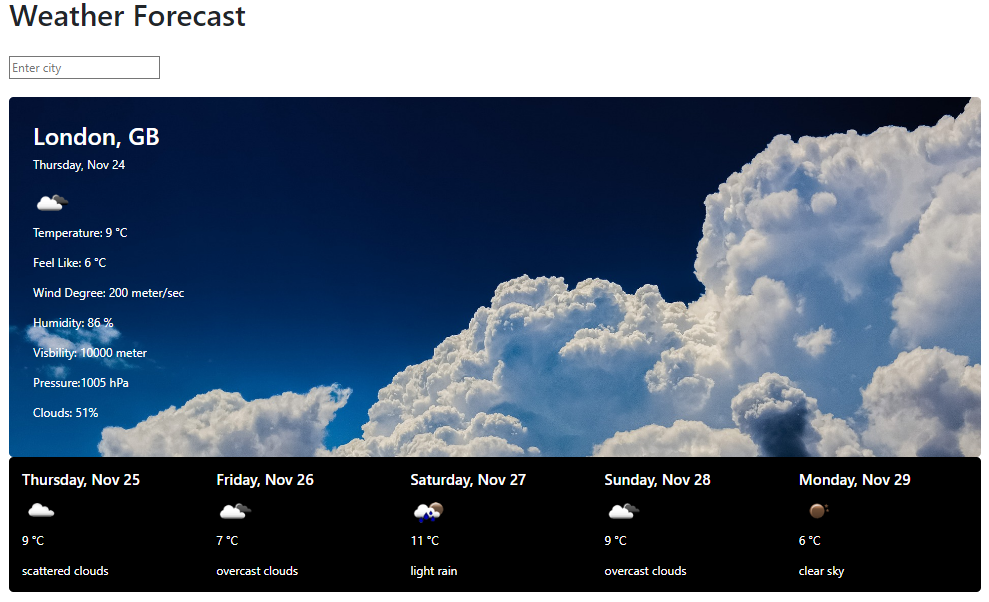
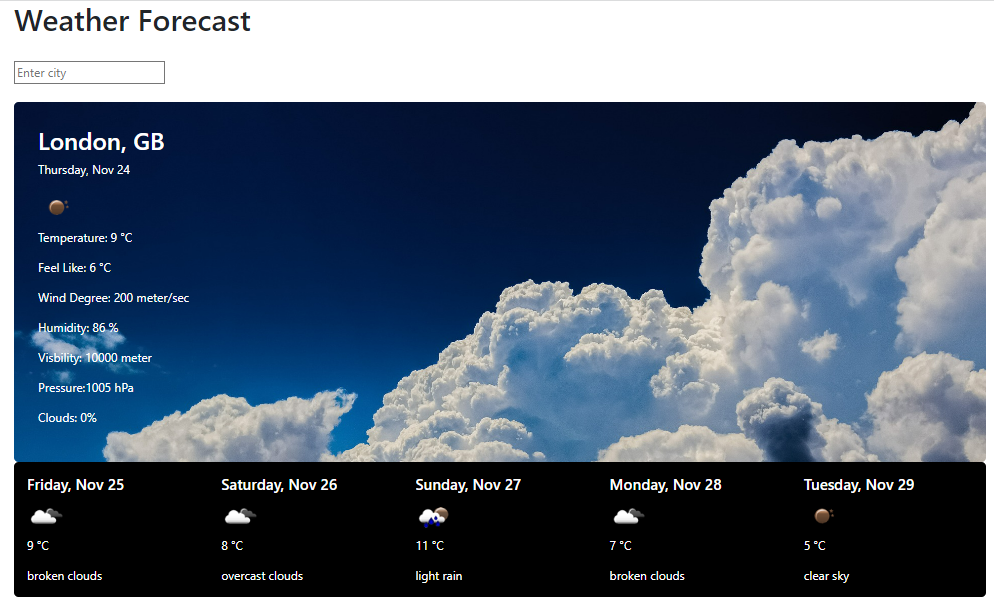
fix bug

diff --git a/src/WeatherForecast.js b/src/WeatherForecast.js
@@ -7,7 +7,7 @@ export default function WeatherForecast({data}) {
         let dateTime = new Date(d * 1000)
         const days = ["Sunday", "Monday", "Tuesday", "Wednesday", "Thursday", "Friday", "Saturday"];
         const months = ['Jan', 'Feb', 'Mar', 'Apr', 'May', 'Jun', 'Jul', 'Aug', 'Sep', 'Oct', 'Nov', 'Dec'];
-        return days[dateTime.getDay()] + ', ' + months[dateTime.getMonth()] + ' ' + (dateTime.getDate()+1);
+        return days[dateTime.getDay()] + ', ' + months[dateTime.getMonth()] + ' ' + (dateTime.getDate());
     }
 
     const style = {
@@ -21,42 +21,42 @@ export default function WeatherForecast({data}) {
         <CardGroup>
             <Card style={style}>
                 <Card.Body>
-                    <Card.Title>{getDate(data.list[0].dt)}</Card.Title>
-                    <img src={`http://openweathermap.org/img/w/${data.list[0].weather[0].icon}.png`} alt='weather icon' />
-                    <Card.Text>{(data.list[0].main.temp - 273.15).toFixed()} °C</Card.Text>
-                    <Card.Text>{data.list[0].weather[0].description}</Card.Text>
+                    <Card.Title>{getDate(data.list[1].dt)}</Card.Title>
+                    <img src={`http://openweathermap.org/img/w/${data.list[1].weather[0].icon}.png`} alt='weather icon' />
+                    <Card.Text>{(data.list[1].main.temp - 273.15).toFixed()} °C</Card.Text>
+                    <Card.Text>{data.list[1].weather[0].description}</Card.Text>
                 </Card.Body>
             </Card>
             <Card style={style}>
                 <Card.Body>
-                    <Card.Title>{getDate(data.list[8].dt)}</Card.Title>
-                    <img src={`http://openweathermap.org/img/w/${data.list[8].weather[0].icon}.png`} alt='weather icon' />
-                    <Card.Text>{(data.list[8].main.temp - 273.15).toFixed()} °C</Card.Text>
-                    <Card.Text>{data.list[8].weather[0].description}</Card.Text>
+                    <Card.Title>{getDate(data.list[9].dt)}</Card.Title>
+                    <img src={`http://openweathermap.org/img/w/${data.list[9].weather[0].icon}.png`} alt='weather icon' />
+                    <Card.Text>{(data.list[9].main.temp - 273.15).toFixed()} °C</Card.Text>
+                    <Card.Text>{data.list[9].weather[0].description}</Card.Text>
                 </Card.Body>
             </Card>
             <Card style={style}>
                 <Card.Body>
-                    <Card.Title>{getDate(data.list[16].dt)}</Card.Title>
-                    <img src={`http://openweathermap.org/img/w/${data.list[16].weather[0].icon}.png`} alt='weather icon' />
-                    <Card.Text>{(data.list[16].main.temp - 273.15).toFixed()} °C</Card.Text>
-                    <Card.Text>{data.list[16].weather[0].description}</Card.Text>
+                    <Card.Title>{getDate(data.list[17].dt)}</Card.Title>
+                    <img src={`http://openweathermap.org/img/w/${data.list[17].weather[0].icon}.png`} alt='weather icon' />
+                    <Card.Text>{(data.list[17].main.temp - 273.15).toFixed()} °C</Card.Text>
+                    <Card.Text>{data.list[17].weather[0].description}</Card.Text>
                 </Card.Body>
             </Card>
             <Card style={style}>
                 <Card.Body>
-                    <Card.Title>{getDate(data.list[24].dt)}</Card.Title>
-                    <img src={`http://openweathermap.org/img/w/${data.list[24].weather[0].icon}.png`} alt='weather icon' />
-                    <Card.Text>{(data.list[24].main.temp - 273.15).toFixed()} °C</Card.Text>
-                    <Card.Text>{data.list[24].weather[0].description}</Card.Text>
+                    <Card.Title>{getDate(data.list[25].dt)}</Card.Title>
+                    <img src={`http://openweathermap.org/img/w/${data.list[25].weather[0].icon}.png`} alt='weather icon' />
+                    <Card.Text>{(data.list[25].main.temp - 273.15).toFixed()} °C</Card.Text>
+                    <Card.Text>{data.list[25].weather[0].description}</Card.Text>
                 </Card.Body>
             </Card>
             <Card style={style}>
                 <Card.Body>
-                    <Card.Title>{getDate(data.list[32].dt)}</Card.Title>
-                    <img src={`http://openweathermap.org/img/w/${data.list[32].weather[0].icon}.png`} alt='weather icon' />
-                    <Card.Text>{(data.list[32].main.temp - 273.15).toFixed()} °C</Card.Text>
-                    <Card.Text>{data.list[32].weather[0].description}</Card.Text>
+                    <Card.Title>{getDate(data.list[33].dt)}</Card.Title>
+                    <img src={`http://openweathermap.org/img/w/${data.list[33].weather[0].icon}.png`} alt='weather icon' />
+                    <Card.Text>{(data.list[33].main.temp - 273.15).toFixed()} °C</Card.Text>
+                    <Card.Text>{data.list[33].weather[0].description}</Card.Text>
                 </Card.Body>
             </Card>
         </CardGroup>   
